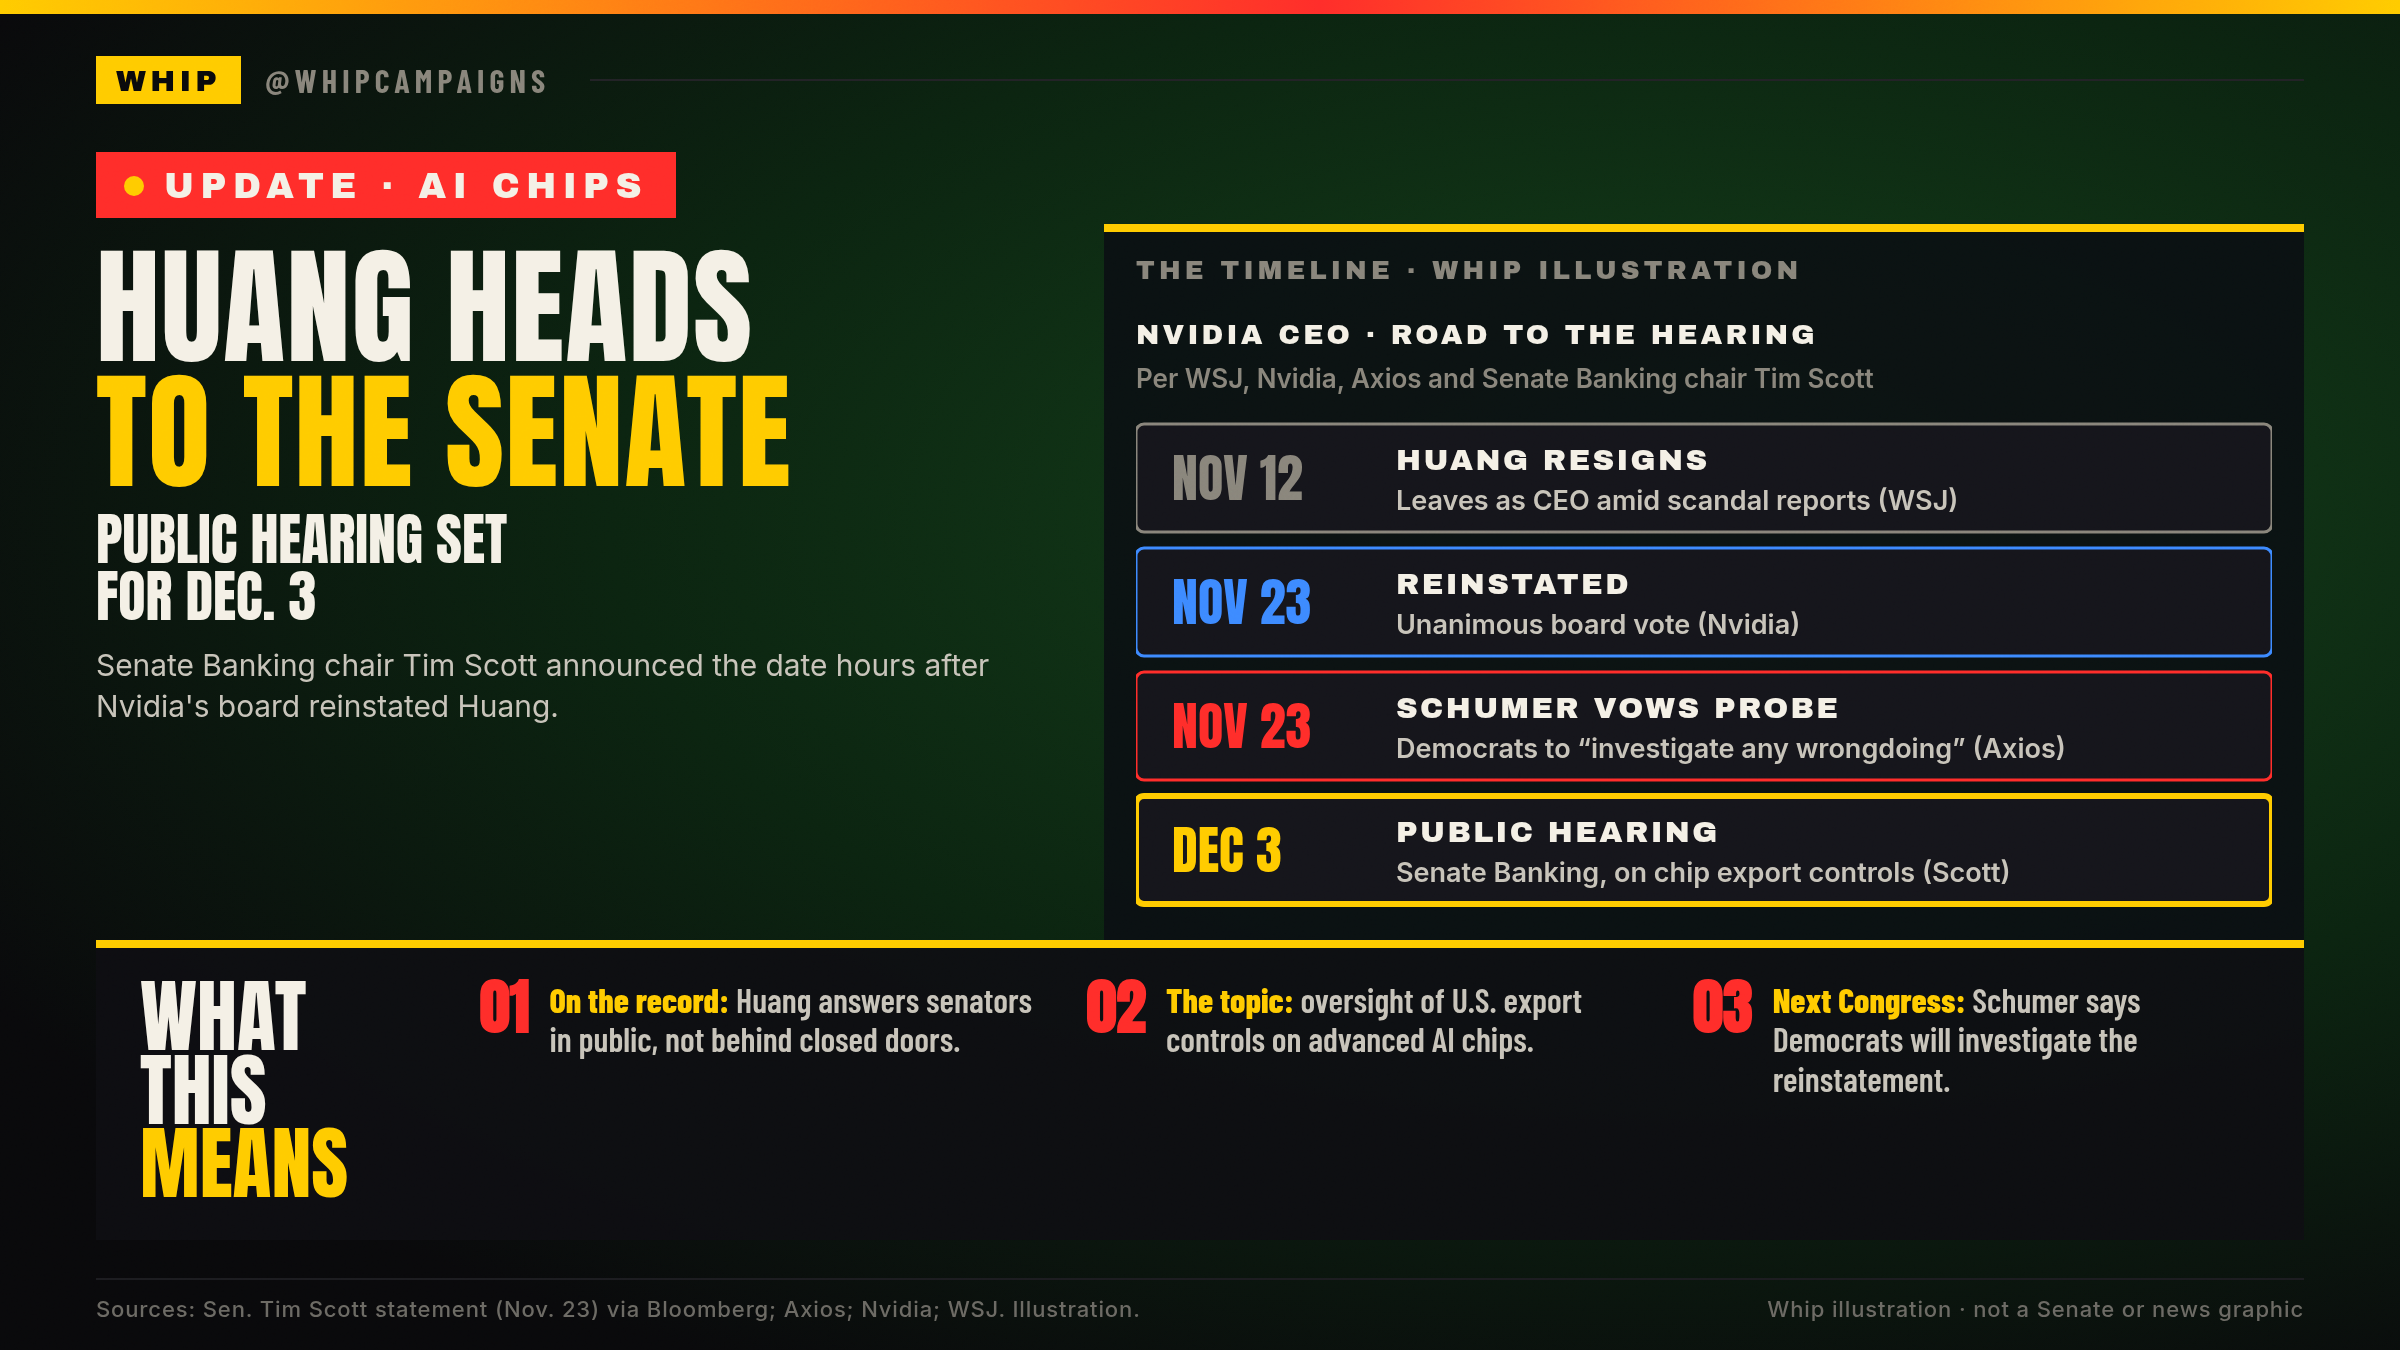
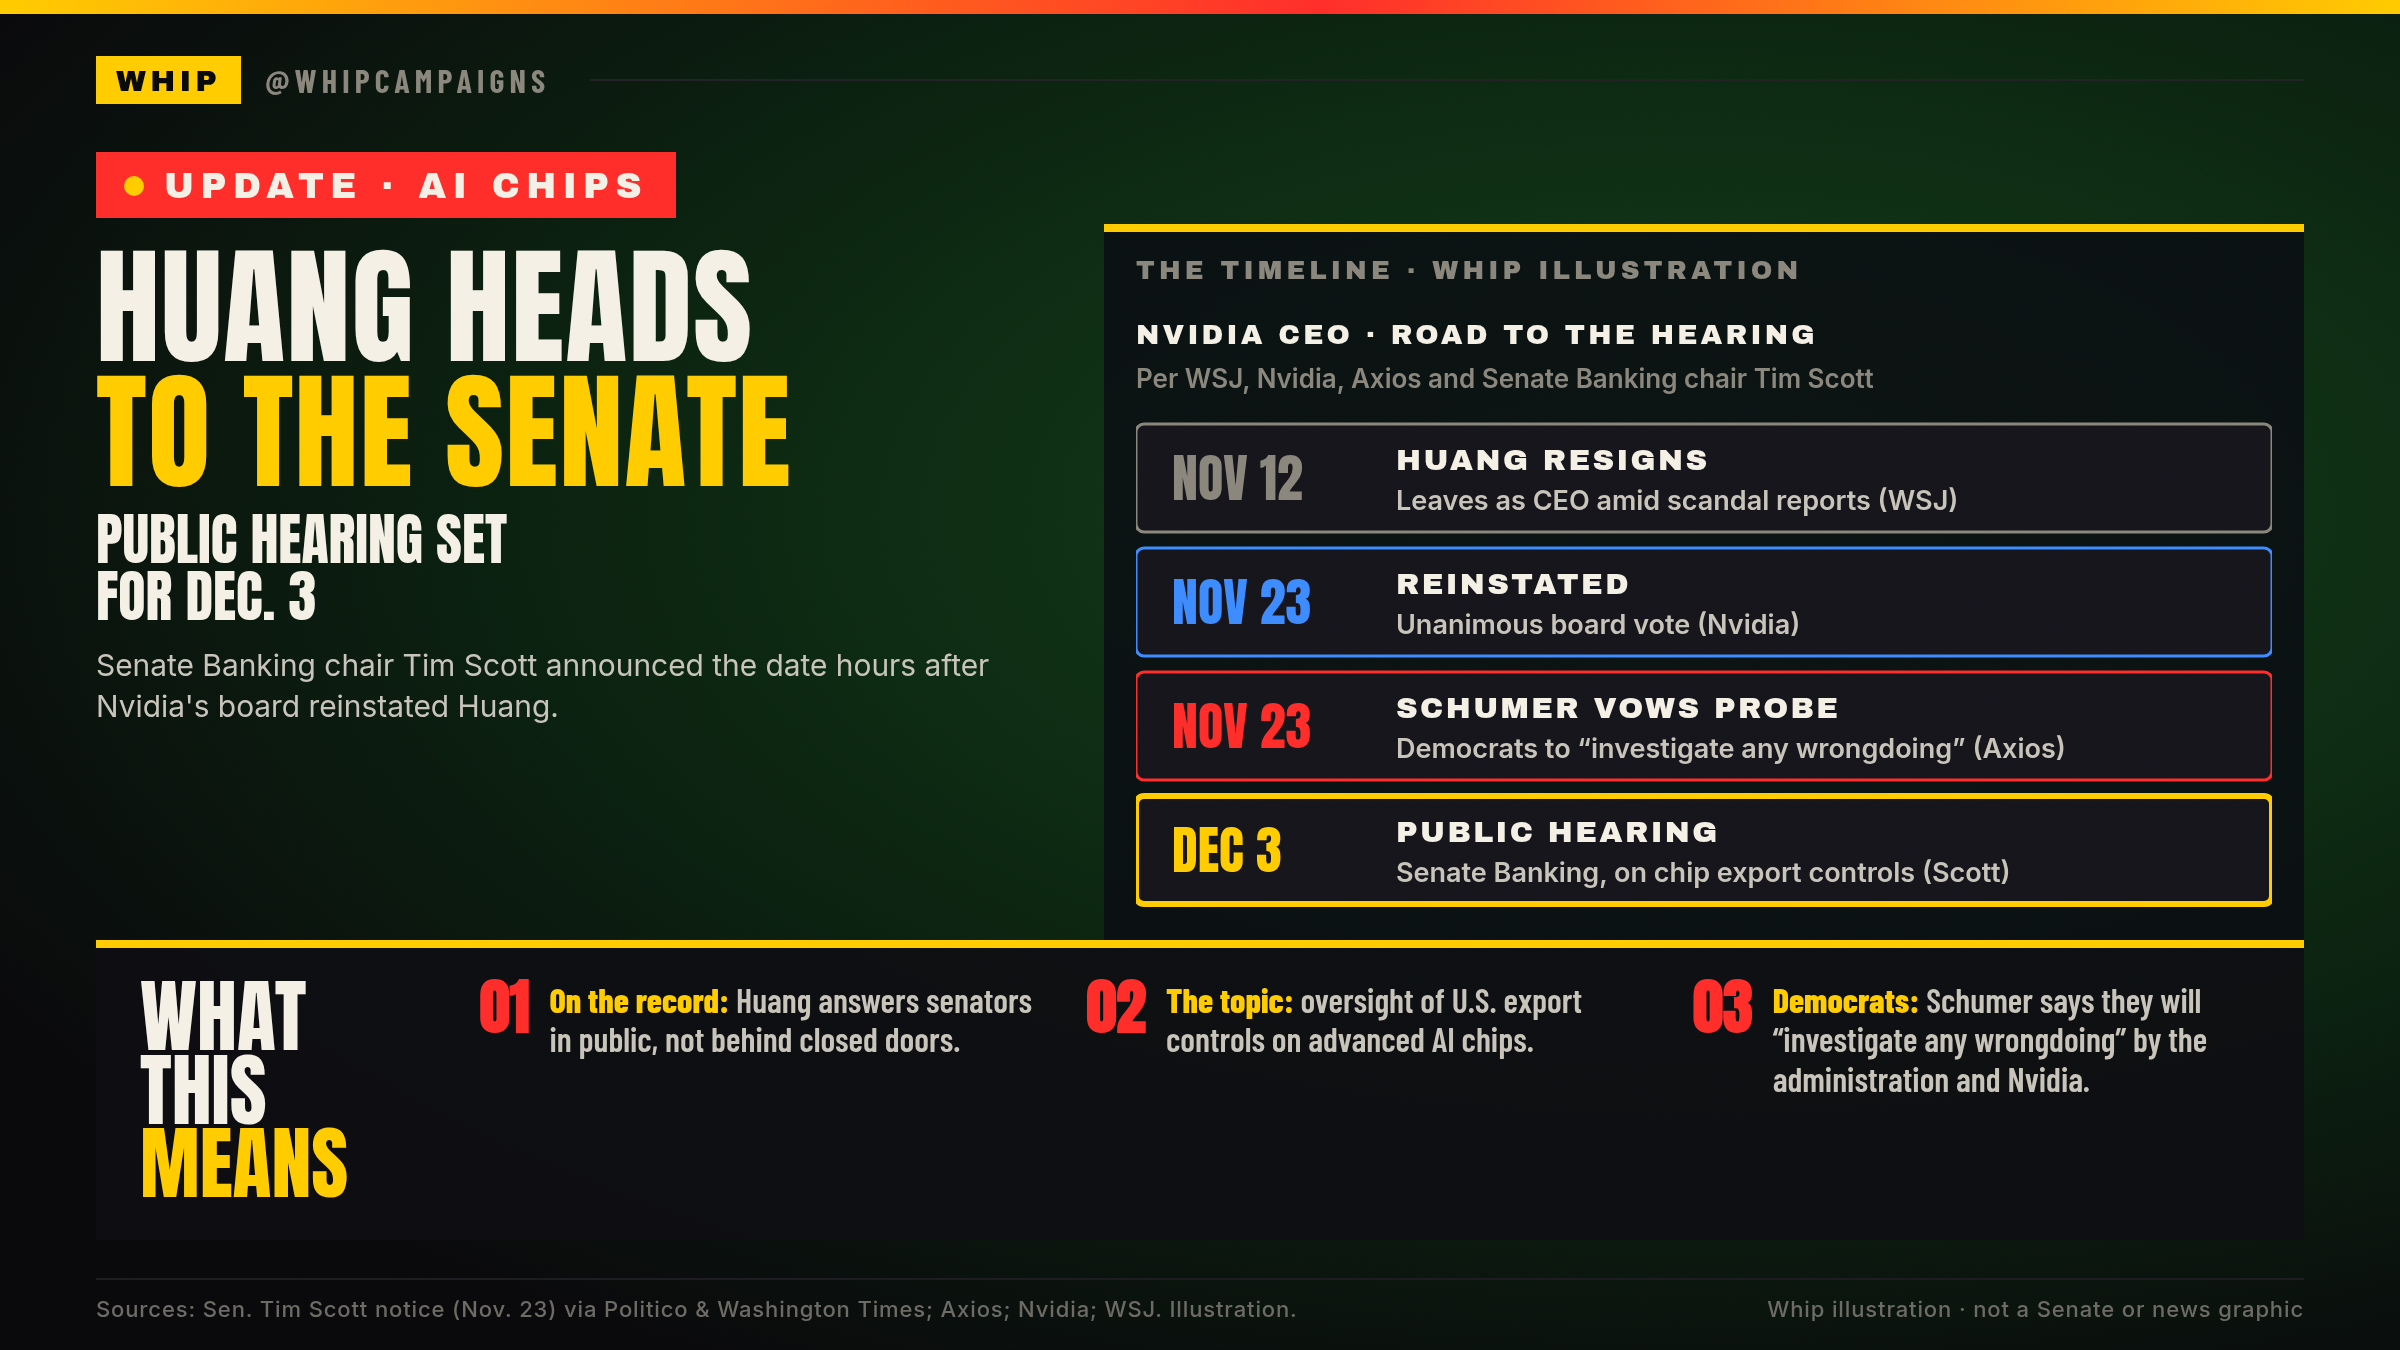
Update Dec. 3 Huang hearing card per Approver review

Changed region(s): [[0.7188, 0.7156, 0.9375, 0.8089], [0.1562, 0.9644, 0.5312, 0.9956]]

diff --git a/breaking/2026-11-23-nvidia-huang-hearing-dec3/make_card.py b/breaking/2026-11-23-nvidia-huang-hearing-dec3/make_card.py
@@ -27,7 +27,7 @@ for d, lab, note, col in rows:
 H = y
 graphic = f'<svg xmlns="http://www.w3.org/2000/svg" width="{W}" height="{H}" viewBox="0 0 {W} {H}">{"".join(parts)}</svg>'
 html = wrap(f"""
-<div class="footer"><span>Sources: Sen. Tim Scott statement (Nov. 23) via Bloomberg; Axios; Nvidia; WSJ. Illustration.</span><span>Whip illustration &middot; not a Senate or news graphic</span></div>
+<div class="footer"><span>Sources: Sen. Tim Scott notice (Nov. 23) via Politico &amp; Washington Times; Axios; Nvidia; WSJ. Illustration.</span><span>Whip illustration &middot; not a Senate or news graphic</span></div>
 <div class="tag"><span class="dot"></span>UPDATE &middot; AI CHIPS</div>
 <div class="left">
   <div class="h1">HUANG HEADS<br><span class="y">TO THE SENATE</span></div>
@@ -42,7 +42,7 @@ html = wrap(f"""
   <div class="wt">WHAT THIS<br><span class="y">MEANS</span></div>
   <div class="b"><div class="n">01</div><div><b>On the record:</b> Huang answers senators in public, not behind closed doors.</div></div>
   <div class="b"><div class="n">02</div><div><b>The topic:</b> oversight of U.S. export controls on advanced AI chips.</div></div>
-  <div class="b"><div class="n">03</div><div><b>Next Congress:</b> Schumer says Democrats will investigate the reinstatement.</div></div>
+  <div class="b"><div class="n">03</div><div><b>Democrats:</b> Schumer says they will &ldquo;investigate any wrongdoing&rdquo; by the administration and Nvidia.</div></div>
 </div>
 """, """
 body{background:radial-gradient(ellipse at 70% 38%,#14401a 0%,#0b2410 45%,#09090b 82%)}

diff --git a/breaking/2026-11-23-nvidia-huang-hearing-dec3/tweet.md b/breaking/2026-11-23-nvidia-huang-hearing-dec3/tweet.md
@@ -1,15 +1,3 @@
-# UPDATE: Huang to testify before Senate Banking Dec. 3; Schumer vows probe (Nov 23, 2026)
+UPDATE: Senate Banking Chair Tim Scott announced Jensen Huang will testify publicly Dec. 3 on U.S. chip export controls, though Politico notes it's unclear if his return changes his plans.
 
-Draft (not posted). Target: reply via X to our follow-up #2 https://x.com/whipcampaigns/status/2124893740267421788 to keep the running thread. Attach card.png. No hook.
-
-Text (len 277):
-
-UPDATE: Jensen Huang will testify publicly before the Senate Banking Committee on Dec. 3, chair Tim Scott announced. Topic: U.S. chip export controls.
-
-Senate Democratic Leader Chuck Schumer says Democrats will "wield their full power to investigate." What should senators ask?
-
-Sources:
-- Bloomberg, Nov 23 (Scott statement): https://www.bloomberg.com/news/articles/2026-11-23/jensen-huang-will-testify-publicly-before-us-senators-next-week
-- Washington Times, Nov 23: https://www.washingtontimes.com/news/2026/nov/23/sen-tim-scott-announces-hearing-nvidia-ceo-jensen-huang-amid-scandal/
-- Axios, Nov 23 (Schumer quote): https://www.axios.com/2026/11/23/schumer-trump-nvidia-huang-reinstated
-- Schumer on X: https://x.com/SenSchumer/status/2124897164358766727
+Sen. Chuck Schumer says Democrats will "wield their full power to investigate."
